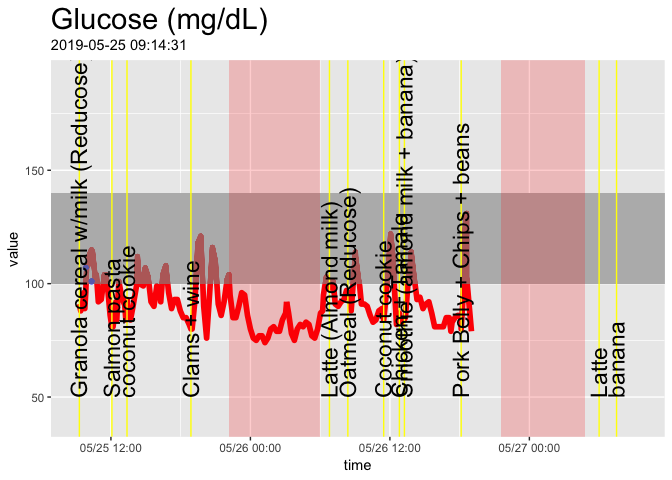
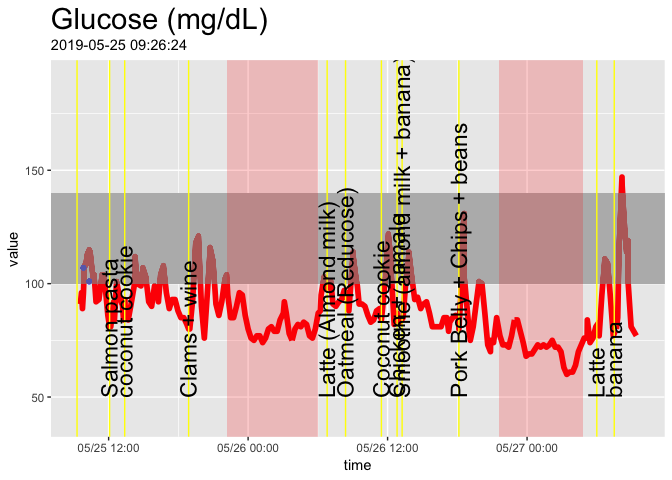
updated data 5/27 AM

diff --git a/README.md b/README.md
@@ -164,7 +164,7 @@ glucose %>% filter(apply(sapply(glucose$time,
     ## ------------------------------------------------------------------------- 
     ## Describe . (tbl_df, tbl, data.frame):
     ## 
-    ## data.frame:  1858 obs. of  1 variables
+    ## data.frame:  1887 obs. of  1 variables
     ## 
     ##   Nr  ColName  Class    NAs  Levels
     ##   1   value    numeric  .          
@@ -174,14 +174,14 @@ glucose %>% filter(apply(sapply(glucose$time,
     ## Glucose Values While Sleeping
     ## 
     ##   length       n    NAs  unique     0s   mean  meanCI
-    ##    1'858   1'858      0      89      0  78.22   77.55
-    ##           100.0%   0.0%           0.0%          78.89
+    ##    1'887   1'887      0      89      0  78.12   77.45
+    ##           100.0%   0.0%           0.0%          78.78
     ##                                                      
     ##      .05     .10    .25  median    .75    .90     .95
-    ##    51.00   59.00  71.00   79.00  86.00  95.30  102.00
+    ##    51.00   59.00  71.00   78.00  86.00  95.00  102.00
     ##                                                      
     ##    range      sd  vcoef     mad    IQR   skew    kurt
-    ##    92.00   14.73   0.19   10.38  15.00  -0.03    1.00
+    ##    92.00   14.66   0.19   10.38  15.00  -0.02    1.02
     ##                                                      
     ## lowest : 40.0 (31), 41.0 (5), 42.0 (4), 43.0 (3), 44.0 (3)
     ## highest: 125.0 (2), 126.0 (2), 129.0, 131.0 (2), 132.0 (2)
@@ -199,24 +199,24 @@ glucose %>% filter(apply(sapply(glucose$time,
     ## ------------------------------------------------------------------------- 
     ## Describe . (tbl_df, tbl, data.frame):
     ## 
-    ## data.frame:  7367 obs. of  1 variables
+    ## data.frame:  7435 obs. of  1 variables
     ## 
     ##   Nr  ColName  Class    NAs        Levels
-    ##   1   value    numeric  93 (1.3%)        
+    ##   1   value    numeric  95 (1.3%)        
     ## 
     ## 
     ## ------------------------------------------------------------------------- 
     ## Glucose Values While Awake
     ## 
     ##   length      n    NAs  unique     0s    mean  meanCI
-    ##    7'367  7'274     93     134      0   88.69   88.25
-    ##           98.7%   1.3%           0.0%           89.12
+    ##    7'435  7'340     95     134      0   88.63   88.19
+    ##           98.7%   1.3%           0.0%           89.07
     ##                                                      
     ##      .05    .10    .25  median    .75     .90     .95
     ##    61.00  68.00  77.00   86.00  98.00  114.00  125.00
     ##                                                      
     ##    range     sd  vcoef     mad    IQR    skew    kurt
-    ##   151.00  19.09   0.22   14.83  21.00    0.72    1.47
+    ##   151.00  19.09   0.22   14.83  21.00    0.73    1.47
     ##                                                      
     ## lowest : 40.0 (33), 41.0 (5), 42.0 (5), 43.0 (3), 44.0 (7)
     ## highest: 174.0, 182.0 (2), 187.0, 188.0, 191.0
